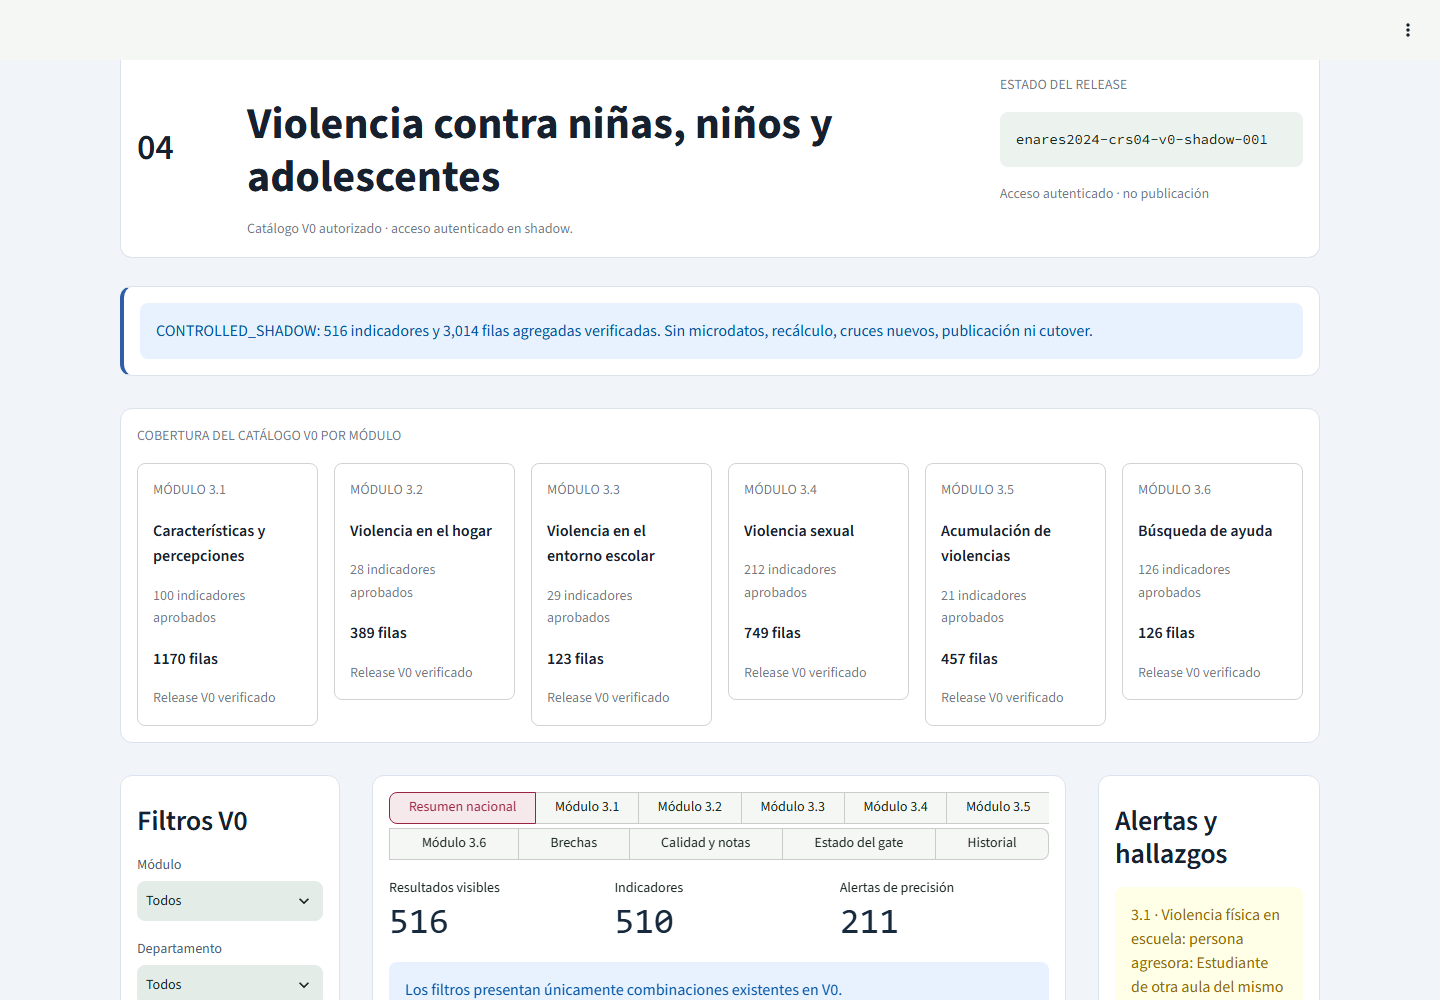
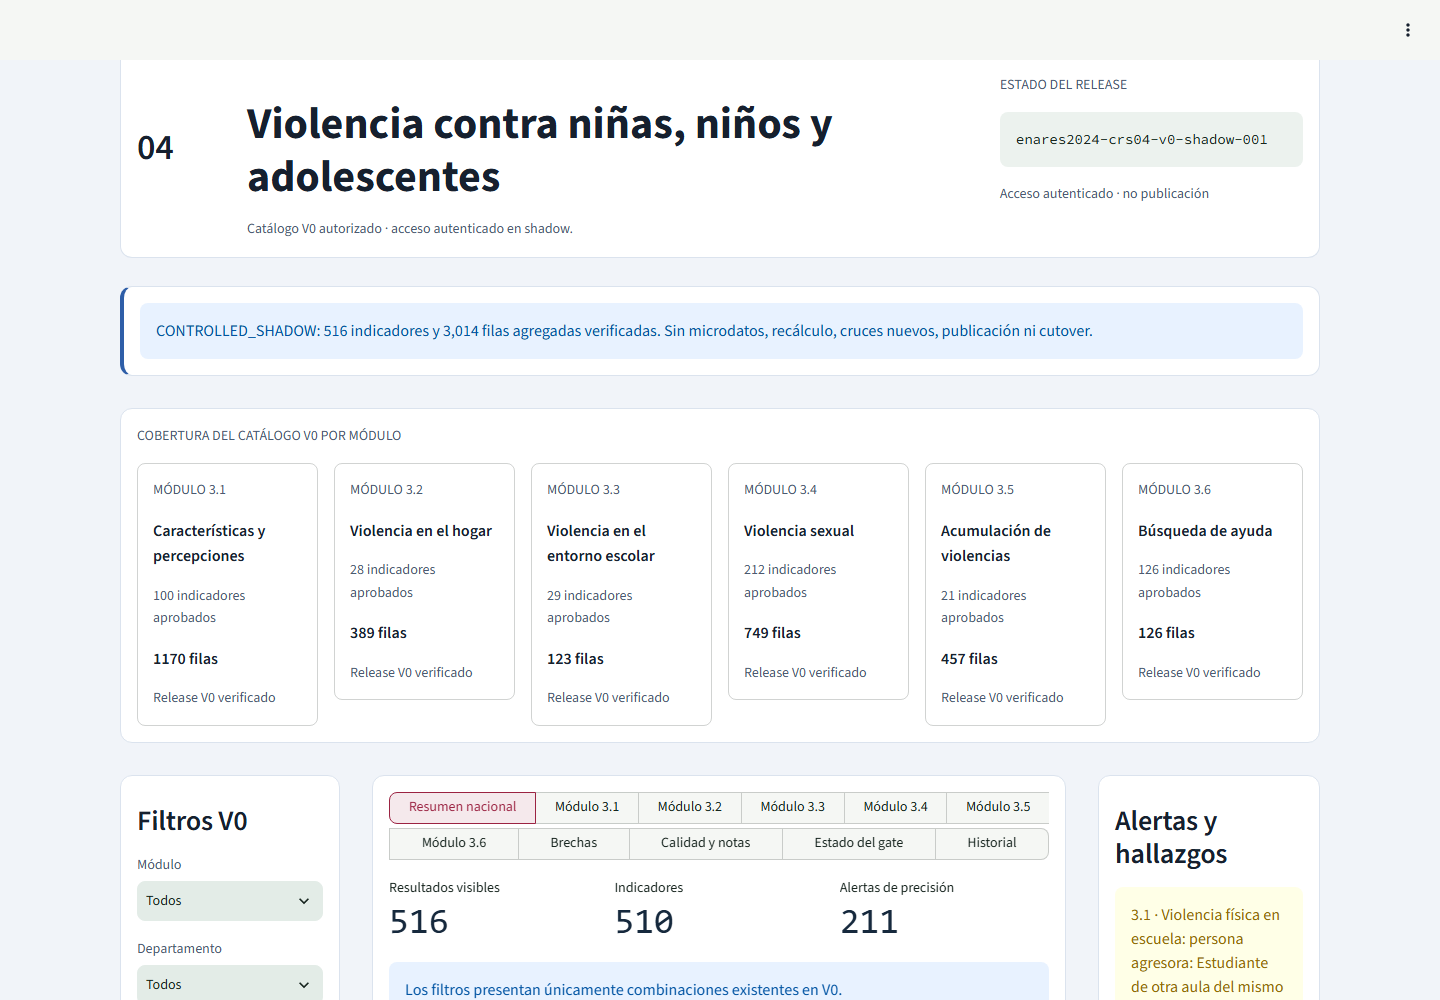
fix(stage04): restore WCAG contrast in canonical UI

diff --git a/app/views/ui_visual_components.py b/app/views/ui_visual_components.py
@@ -44,6 +44,11 @@ VISUAL_CSS = """
 .stApp { background: var(--s04-paper); color: var(--s04-ink); }
 .block-container { max-width: 1360px; padding-top: 1.15rem; padding-bottom: 2.5rem; }
 h1, h2, h3 { color: var(--s04-brand-strong); font-family: Georgia, serif; }
+[data-testid="stCaptionContainer"],
+[data-testid="stCaptionContainer"] * {
+  color: var(--s04-ink-soft) !important;
+  opacity: 1 !important;
+}
 [data-testid="stMetricValue"] { font-family: Consolas, monospace; color: var(--s04-brand-strong); }
 .st-key-stage04_header,
 .st-key-stage04_scope_banner,
